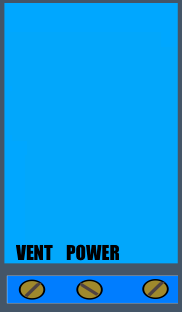
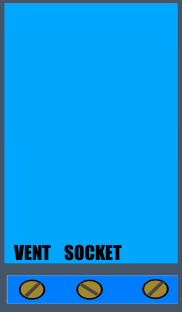
.

Changed region(s): [[0.3297, 0.7788, 0.6868, 0.8365], [0.0549, 0.7788, 0.3022, 0.8365]]

diff --git a/README.md b/README.md
@@ -21,11 +21,13 @@ Make sure your unit has the following specification
 
 You can cut open the existing cable and use that or use plugs!
 
- * Blue: N Power Socket
- * Brown: L3 Power Socket
- * Orange: N Ventilation Unit
- * Yellow: L1 Ventilation Unit
- * Green: L2 Ventilation Unit
+ * Blue: N power socket
+ * Brown: L3 power socket
+ * Orange: N ventilation unit
+ * Yellow: L1 ventilation unit
+ * Green: L2 ventilation unit
+ * L1 & L2 power socket terminated
+ * L3 & Ground directly connected
 
 ```
 Power Socket          Ventilation Unit
